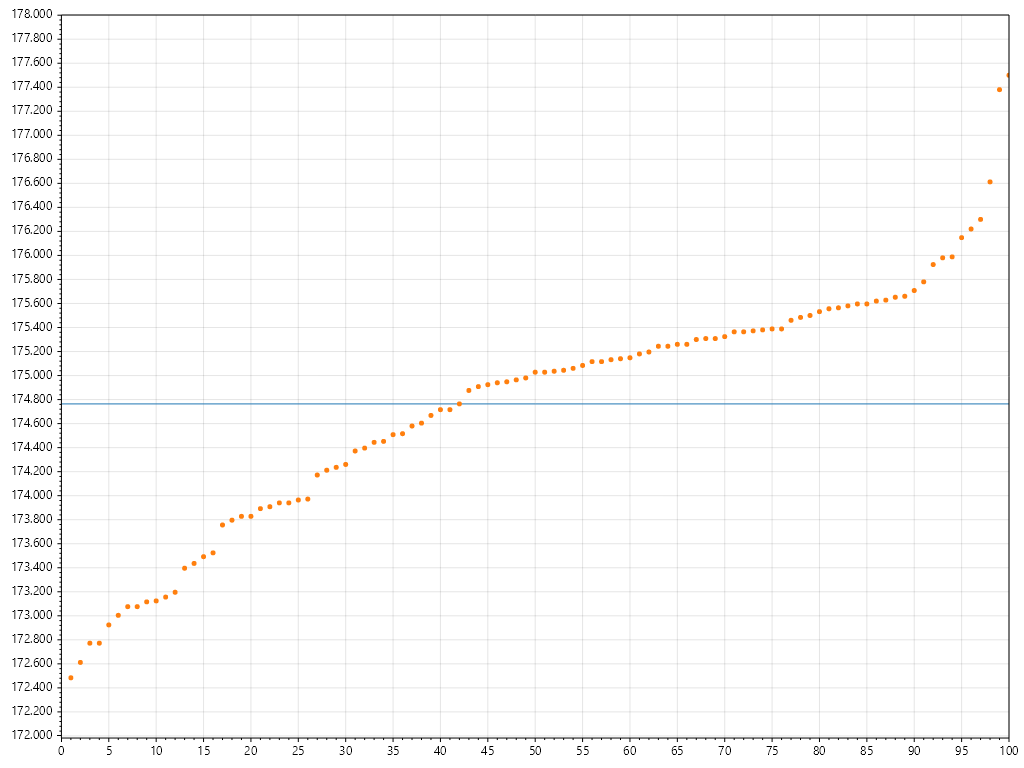
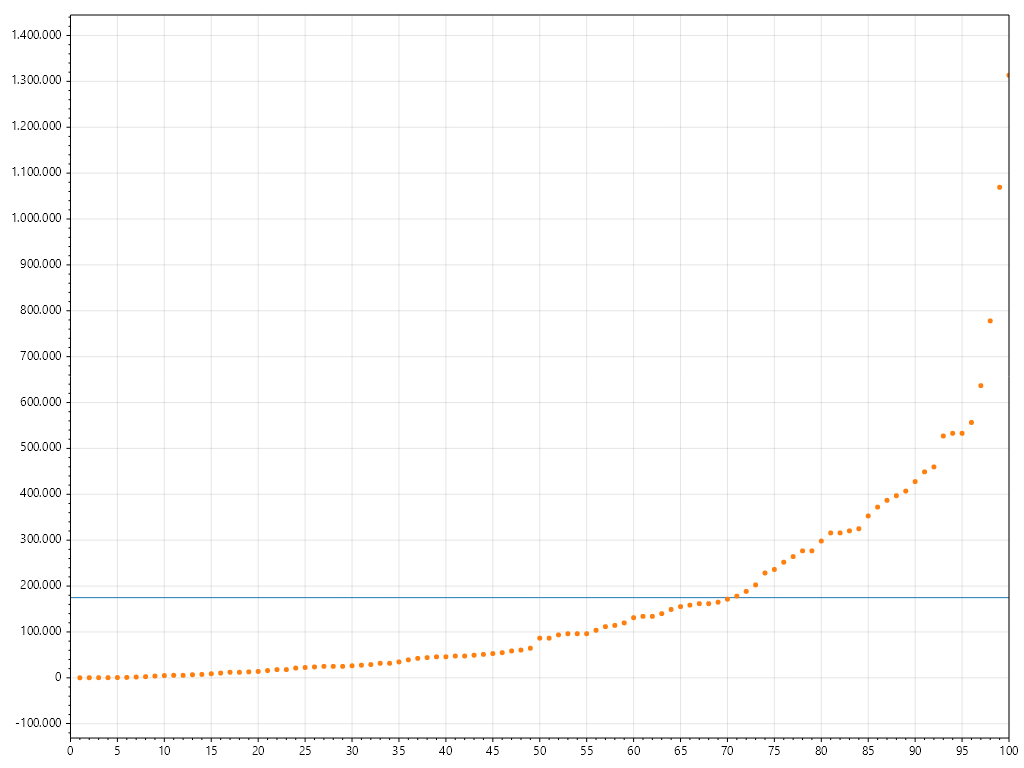
interesting.

diff --git a/RadProject/HashFunctions.cs b/RadProject/HashFunctions.cs
@@ -24,13 +24,16 @@ public class MulModPriHash : HashFunction{
     BigInteger a;
     BigInteger b;
 
+    BigInteger p;
+
     public MulModPriHash(BigInteger a, BigInteger b,int l){
         this.a = a; 
         this.b = b; 
         this.l = l; 
+        p = BigInteger.Pow(2,89)-1;
     }
     public override ulong Hash(ulong x){
-        BigInteger p = BigInteger.Pow(2,89)-1;
+        // BigInteger p = BigInteger.Pow(2,89)-1;
         BigInteger x_big = new BigInteger(x);
         BigInteger y =  ((BigInteger.Multiply(a,x_big) + b) & p) + ((BigInteger.Multiply(a,x_big) + b) >> 89);
 
@@ -73,9 +76,11 @@ public class FourHashFunction{
 
         for (int i = 2; i >= 0; i--)
         {
-            BigInteger temp = BigInteger.Multiply(y, x_big);
-            y = temp + a_values[i];
-            y = (y & p) + (y >> 89);
+            // BigInteger temp = BigInteger.Multiply(y, x_big);
+            // y = temp + a_values[i];
+            // y = (y & p) + (y >> 89);
+            y = (y*x_big + a_values[i]) & p ;
+            y += y >> 89;
             // y = (y * x_big + a_values[i]) % p;
         }
 
@@ -100,7 +105,7 @@ public class CountSketchHash : HashFunction{
         //h(x)
         ulong h = (ulong)(g.Hash(x) & ((1UL<<l)-1));
         //s(x)
-        int s = (int)(1-2*((BigInteger)g.Hash(x) >> (b-1)));
+        int s = (int)(1-2*(g.Hash(x) >> (b-1)));
         return (h,s);
     }
 }

diff --git a/RadProject/CountSketch.cs b/RadProject/CountSketch.cs
@@ -49,7 +49,7 @@ public class CountSketch {
     public CountSketch(CountSketchHash g, int l) {
         this.g = g;
         this.l = l;
-        this.arraySize = 1 << l; // Array size is 2^l
+        this.arraySize = 1 << l; // Array size is 2^l or m idk
         C = new int[arraySize];
     }
 
@@ -59,14 +59,13 @@ public class CountSketch {
             ulong hHash = hHashPair.Item1;
             int sHash = hHashPair.Item2;
 
-            // Use modulo to ensure the hash index fits within the array bounds
+            // to ensure the hash index fits within the array bounds, and also the hhash value is a ulong so we get it to int
             int index = (int)(hHash % (ulong)arraySize);
             C[index] += sHash * tuple.Item2;
         }
     }
 
     public long EstimateX(IEnumerable<Tuple<ulong, int>> stream) {
-        Array.Clear(C, 0, C.Length); // Clear previous state if any
         this.Init(stream);
 
         long sum = 0;
